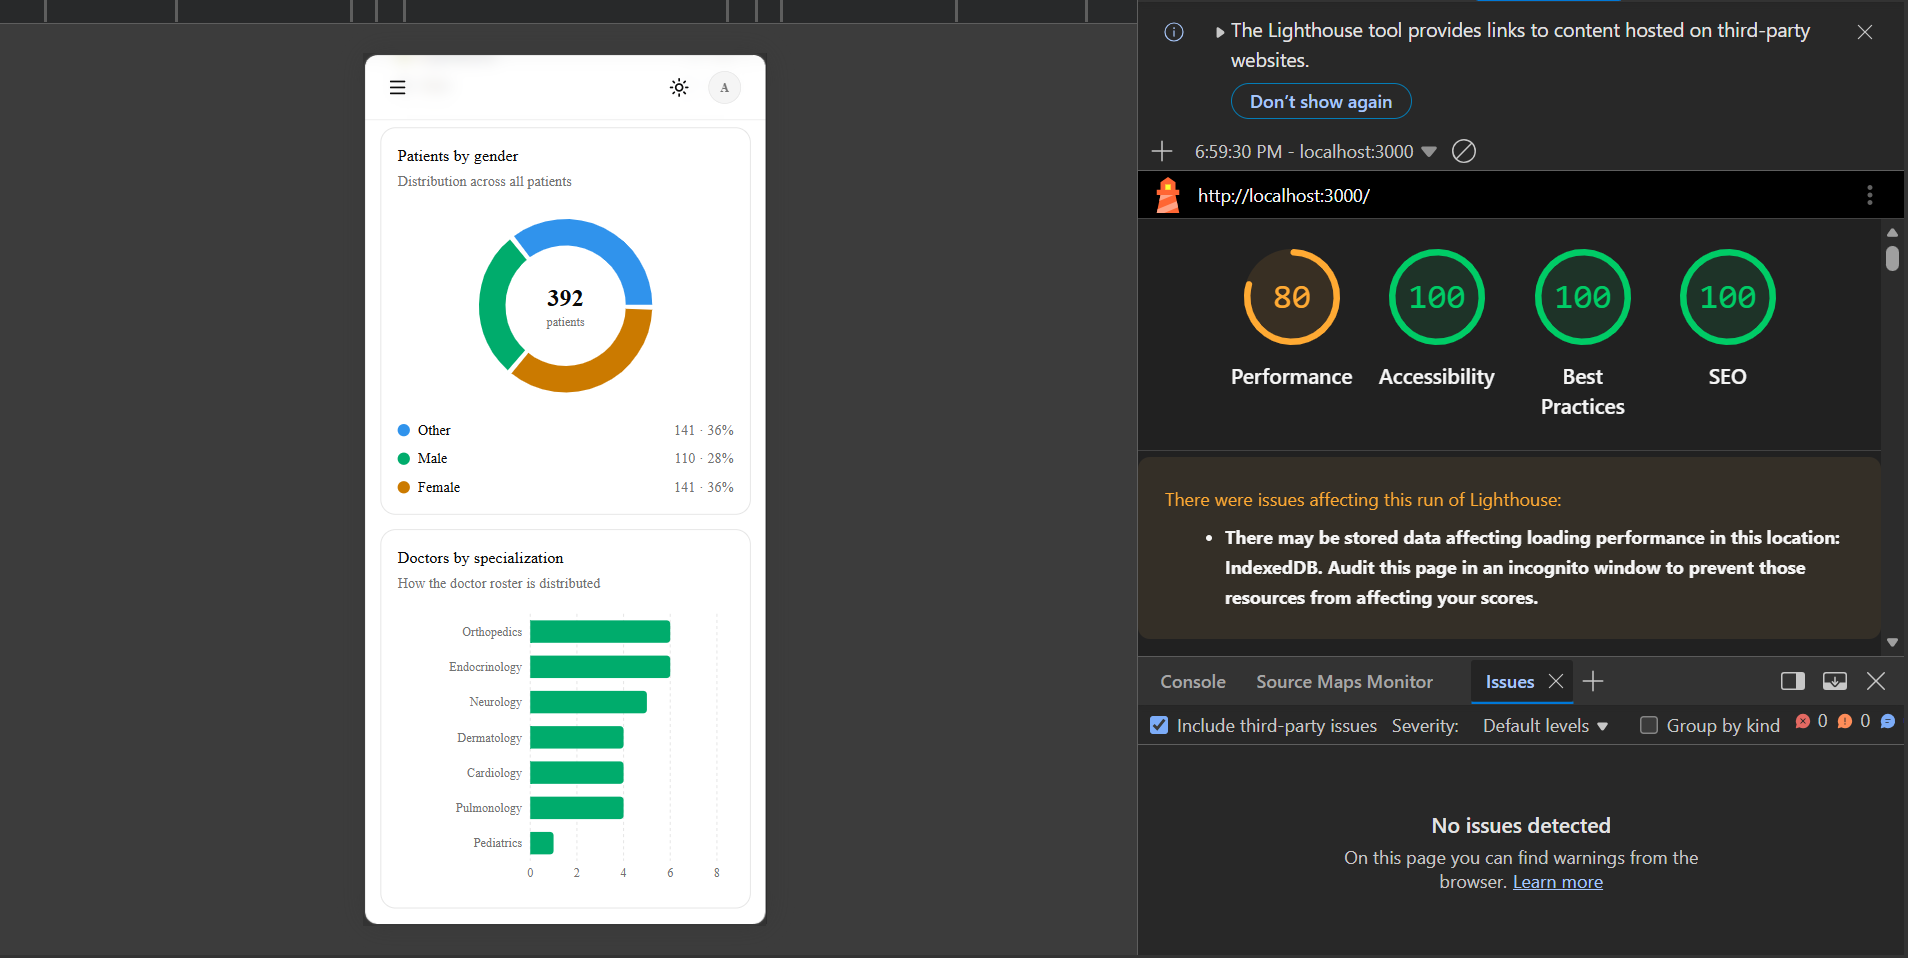
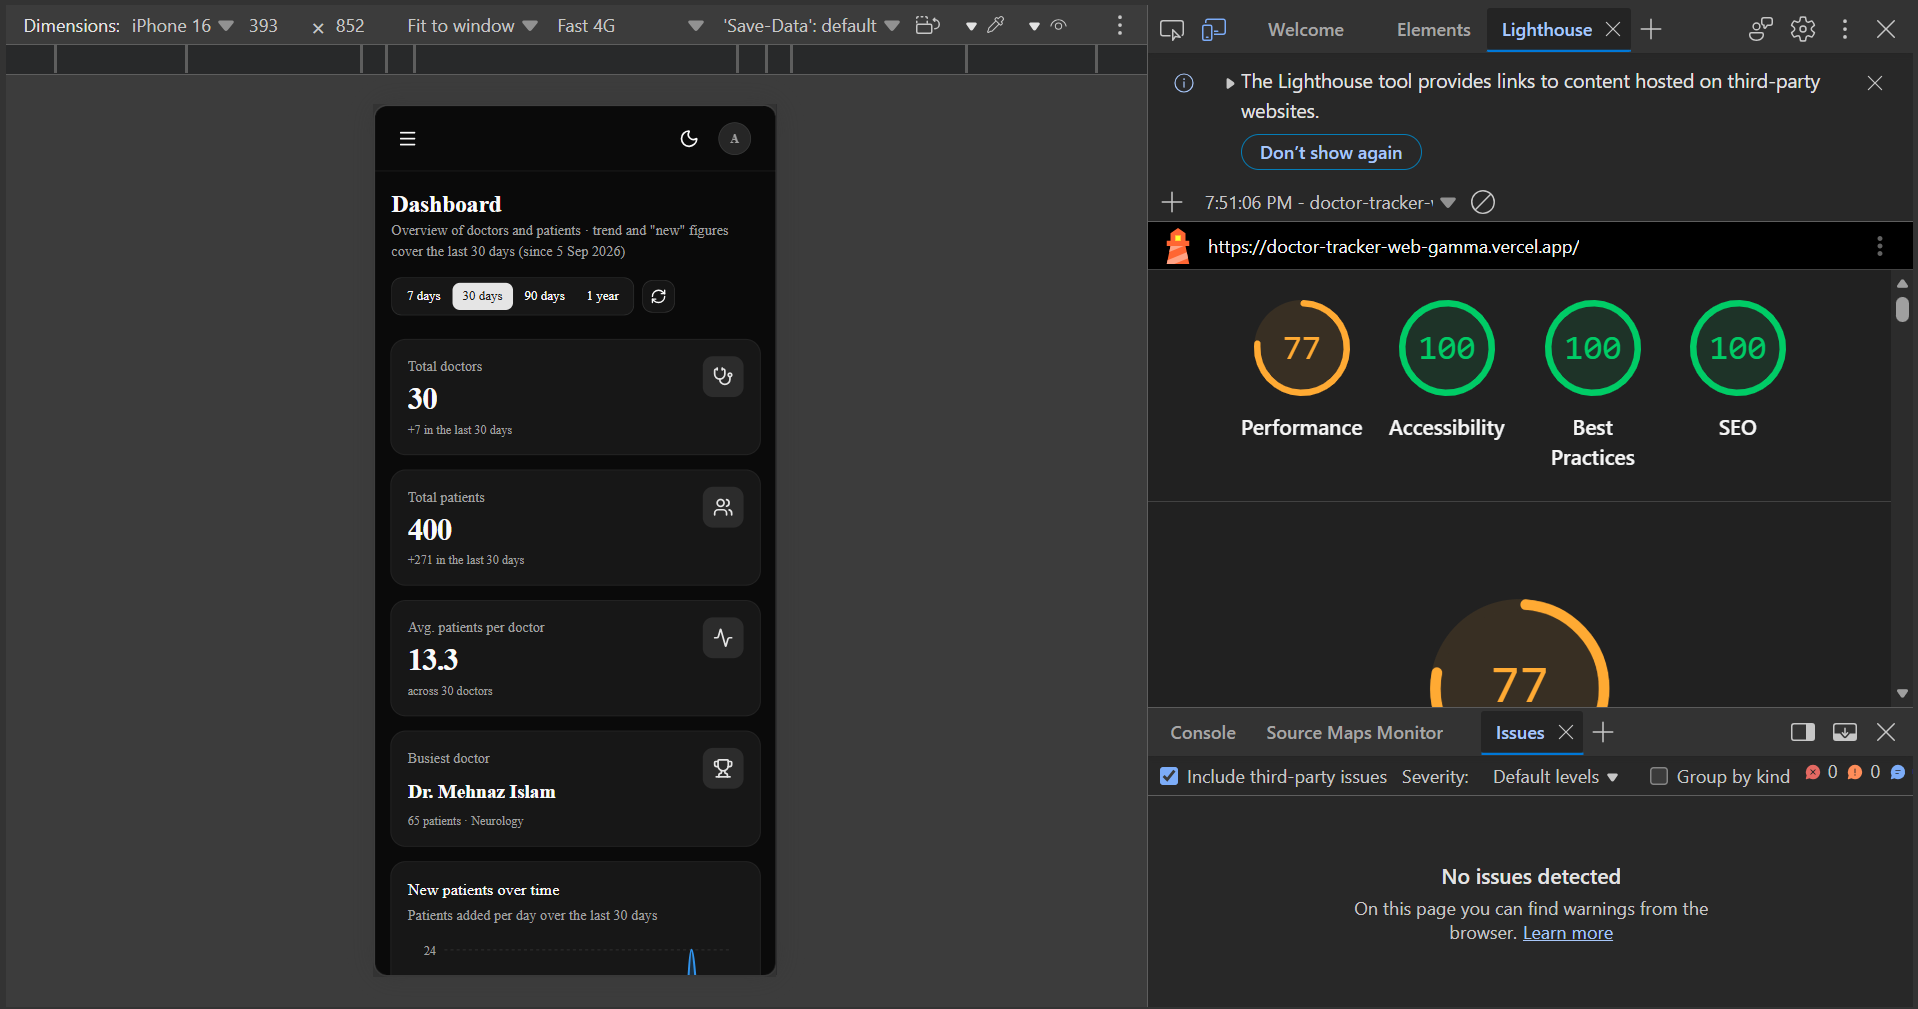
fix: add frontend url link in Readme file, Replace lighthouse-mobile png

diff --git a/README.md b/README.md
@@ -8,10 +8,10 @@ Doctor Tracker is a secure administrative portal for managing doctors and their 
 
 | | |
 |---|---|
-| **Live app** | `https://<your-app>.vercel.app` |
+| **Live app** | `https://doctor-tracker-web-gamma.vercel.app` |
 | **Live API** | `https://doctor-tracker-api-cx5r.onrender.com` (health check: `/api/health`) |
 | **Backend repository** | `https://github.com/mdmaksudurrahman/doctor-tracker-api` |
-| **Demo login** | Email: `<admin email>` / Password: `<admin password>` |
+| **Demo login** | Email: `admin@doctortracker.com` / Password: `Admin@12345` |
 
 > The API runs on Render's free tier, which sleeps after about 15 minutes without traffic. The first request can take 30 to 60 seconds. The app shows a "this is taking longer than usual" notice when that happens, so a slow first load is expected.
 
